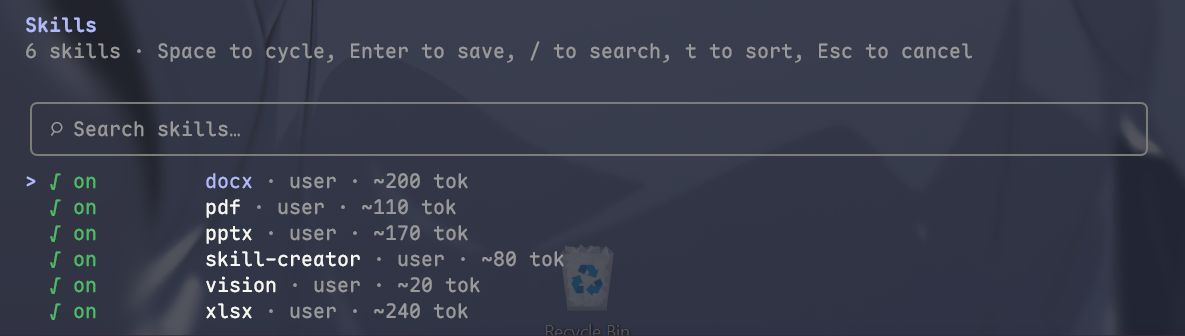
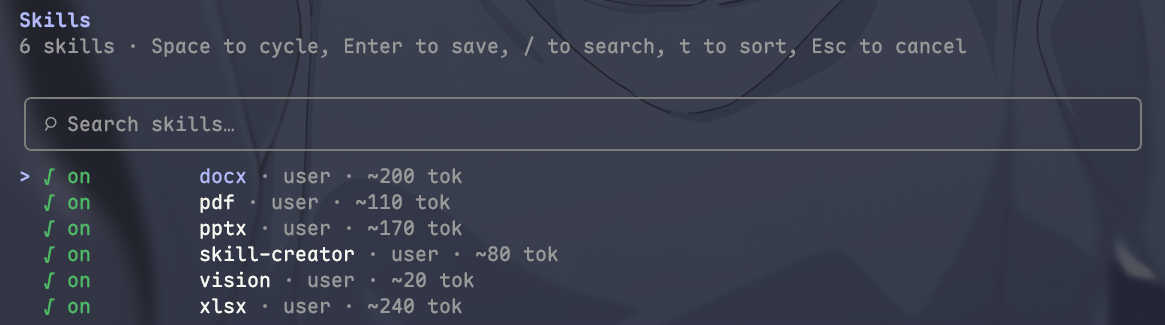
Update

diff --git a/src/content/blog/20260519.md b/src/content/blog/20260519.md
@@ -1,76 +1,77 @@
 ---
 draft: false
 title: Vibe Coding
-description: 通过自然语言与 AI 协作、沉浸于创造氛围的编程方式。
+description: 通过自然语言与 AI 协作, 沉浸于创造氛围的编程方式.
 tags:
   - code
-  - Agent
+  - agent
+  - vibe-coding
 date: 2026-05-19
 update: 2026-06-17
-revision: 6
+revision: 8
 ---
 
 ## Vibe Coding
 
 ### 什么是 Vibe Coding
 
-**Vibe Coding（氛围编程）** 是一种由 AI Agent 驱动的全新编程范式，开发者通过**自然语言**向 Agent 描述需求，Agent 则负责自动生成、修改和调试代码。
+**Vibe Coding(氛围编程)** 是一种由 AI Agent 驱动的全新编程范式, 开发者通过**自然语言**向 Agent 描述需求, Agent 则负责自动生成, 修改和调试代码.
 
-Vibe Coding 的形态在过去与现在有着显著不同。早期，它主要体现为 VS Code 的插件，核心功能是智能的行内代码补全。然而，随着这一概念的兴起，Vibe Coding 的工具边界被极大拓宽：它们不仅能调用更多系统权限，还能处理更复杂的开发任务。以 Cursor 和 Claude Code 为代表的 Agent 编程工具便是其中的佼佼者。值得一提的是，这类工具虽然本身闭源，但开放了 API 接口，允许用户替换为 DeepSeek 等第三方模型，这也让中国国内用户能够便捷地使用。
+Vibe Coding 的形态在过去与现在有着显著不同. 早期, 它主要体现为 VS Code 的插件, 核心功能是智能的行内代码补全. 然而, 随着这一概念的兴起, Vibe Coding 的工具边界被极大拓宽: 它们不仅能调用更多系统权限, 还能处理更复杂的开发任务. 以 Cursor 和 Claude Code 为代表的 Agent 编程工具便是其中的佼佼者. 值得一提的是, 这类工具虽然本身闭源, 但开放了 API 接口, 允许用户替换为 DeepSeek 等第三方模型, 这也让中国国内用户能够便捷地使用.
 
 ### AI Agent 与传统网页对话有什么不同
 
 | 技术维度       | 网页对话                                 | AI Agent                                      |
 | ---------- | ------------------------------------ | --------------------------------------------- |
-| **代码执行能力** | 无。模型生成代码后，需要你**手动复制**到本地运行。          | **自动执行**。Agent 可以直接在终端运行你生成的代码。               |
-| **反馈闭环**   | 你看到错误 → 手动复制错误信息 → 手动粘贴回复 → 让 AI 再改。 | **错误自动回传**。终端报错自动喂给 Agent，Agent 自动修正。         |
-| **文件系统访问** | 无。AI 不知道你的项目有哪些文件、目录结构。              | **可读写文件**。Agent 可以自己创建、修改、删除项目中的多个文件。         |
-| **工具调用能力** | 无。模型只能输出文本。                          | **有函数调用**。Agent 可以主动执行 shell 命令、git 操作、运行测试等。 |
-| **交互方式**   | 一问一答，手动复制粘贴。                         | **多轮自动循环**。Agent 自己写 → 跑 → 看报错 → 改 → 再跑，直到完成。 |
+| **代码执行能力** | 无. 模型生成代码后, 需要你**手动复制**到本地运行.           | **自动执行**. Agent 可以直接在终端运行你生成的代码.                |
+| **反馈闭环**   | 你看到错误 → 手动复制错误信息 → 手动粘贴回复 → 让 AI 再改.  | **错误自动回传**. 终端报错自动喂给 Agent, Agent 自动修正.          |
+| **文件系统访问** | 无. AI 不知道你的项目有哪些文件, 目录结构.               | **可读写文件**. Agent 可以自己创建, 修改, 删除项目中的多个文件.          |
+| **工具调用能力** | 无. 模型只能输出文本.                           | **有函数调用**. Agent 可以主动执行 shell 命令, git 操作, 运行测试等.  |
+| **交互方式**   | 一问一答, 手动复制粘贴.                          | **多轮自动循环**. Agent 自己写 → 跑 → 看报错 → 改 → 再跑, 直到完成.  |
 
-Vibe Coding 工具的本质是一个 AI Agent——通过提示词被赋予了调用外部工具、读取文件、修改文件等能力。
+Vibe Coding 工具的本质是一个 AI Agent -- 通过提示词被赋予了调用外部工具, 读取文件, 修改文件等能力.
 
-## 为什么尝试 Vibe Coding？
+## 为什么尝试 Vibe Coding?
 
 ![Vibe Coding](@/assets/images/2026051900.png)
 
-根据我大量在线学习的经历，诚然，对我而言，学习是一个在大脑中创建索引与链接的过程，在遇到一个问题的时候，如果你能够索引到解决方案，那你就可以解决这个问题。如何创建索引？在之前，这是一个搜索相关文档并总结归纳地过程：你需要在搜索引擎搜索关键词，并翻阅各个网站或者官方文档。而 AI 的出现，让索引的创建变得异常容易，往往只需要一个提问，你就能够在脑海中创建解决问题的索引并持续深入，省去了大量的搜索的时间。而且给了 AI 一只"笔"并告诉它如何使用之后，AI 还能够帮助你快速完成任务，效率得到了巨大的提升。
+根据笔者大量在线学习的经历, 诚然, 对笔者而言, 学习是一个在大脑中创建索引与链接的过程, 在遇到一个问题的时候, 如果你能够索引到解决方案, 那你就可以解决这个问题. 如何创建索引? 在之前, 这是一个搜索相关文档并总结归纳地过程: 你需要在搜索引擎搜索关键词, 并翻阅各个网站或者官方文档. 而 AI 的出现, 让索引的创建变得异常容易, 往往只需要一个提问, 你就能够在脑海中创建解决问题的索引并持续深入, 省去了大量的搜索的时间. 而且给了 AI 一只"笔"并告诉它如何使用之后, AI 还能够帮助你快速完成任务, 效率得到了巨大的提升.
 
-如果你有自己想要尝试做到的事情，但是不知从何开始，不妨尝试一下Vibe Coding。
+如果你有自己想要尝试做到的事情, 但是不知从何开始, 不妨尝试一下Vibe Coding.
 
 ## 有哪些成熟的 Vibe Coding Agent
 
-在所有情况下，我都建议使用终端，也就是**命令行环境下的编程 Agent**，因为 CLI Agent 的可自定义程度更高。
+在所有情况下, 笔者都建议使用终端, 也就是**命令行环境下的编程 Agent**, 因为 CLI Agent 的可自定义程度更高.
 
 | cli                    | description                             |
 | ---------------------- | --------------------------------------- |
-| Claude Code CLI        | “最强 coding agent CLI”                 |
+| Claude Code CLI        | "最强 coding agent CLI"                 |
 | Codex CLI              | OpenAI 版 Claude Code 有免费试用        |
 | Google Antigravity CLI | 良心 Google 有免费试用                  |
 | OpenCode CLI           | 开源 官方 OpenCode Zen 免费供应部分模型 |
 | Aider                  | 开源 需要自行接入外部模型               |
 | Goose                  | 开源 需要自行接入外部模型               |
 
-### 哪一个组合效果最佳？
+### 哪一个组合效果最佳?
 
 ![Claude Code + Claude Opus](@/assets/images/2026051902.png)
 
-在以前，我可能会认为 Claude Code + Claude Opus 是最强的，但是后来发现 Claude 和 ChatGPT 都有各自的优势。Claude 思维发散能力很强，ChatGPT 编写代码的能力胜过 Claude，Claude 和 ChatGPT 都使用才是最佳搭配，Claude 适合做 CEO，ChatGPT 适合做 CTO。
+在以前, 笔者可能会认为 Claude Code + Claude Opus 是最强的, 但是后来发现 Claude 和 ChatGPT 都有各自的优势. Claude 思维发散能力很强, ChatGPT 编写代码的能力胜过 Claude, Claude 和 ChatGPT 都使用才是最佳搭配, Claude 适合做 CEO, ChatGPT 适合做 CTO.
 
-### 想知道哪个 AI 模型的使用效果好？
+### 想知道哪个 AI 模型的使用效果好?
 
 ![Flow](@/assets/images/2026051901.png)
 
-[Arena AI](https://arena.ai/) 运营公开的**大模型竞技场排行榜**。它让用户匿名、并排对比两个模型的回答（A/B测试），基于海量真实用户投票进行排名。排行榜包含文本、编程、视觉理解等方面。
+[Arena AI](https://arena.ai/) 运营公开的**大模型竞技场排行榜**. 它让用户匿名, 并排对比两个模型的回答 (A/B测试), 基于海量真实用户投票进行排名. 排行榜包含文本, 编程, 视觉理解等方面.
 
 ![Artificial Analysis](@/assets/images/2026051903.png)
 
-[Artificial Analysis](https://artificialanalysis.ai/) 是一个专注于**独立分析、评测和对比 AI 模型与 API 提供商**的专业数据平台。分数很难受到人工干预，更加客观。
+[Artificial Analysis](https://artificialanalysis.ai/) 是一个专注于**独立分析, 评测和对比 AI 模型与 API 提供商**的专业数据平台. 分数很难受到人工干预, 更加客观.
 
 ## 什么事情不适合使用 AI
 
-没有清晰的参考文档，没有 SOP （**Standard Operating Procedure**） 的事情。
+没有清晰的参考文档, 没有 SOP (**Standard Operating Procedure**) 的事情.
 
 ## 如何看待 Vibe Coding
 
-不要问 Agent 能帮你做什么，要问你想做什么。
+不要问 Agent 能帮你做什么, 要问你想做什么.

diff --git a/CLAUDE.md b/CLAUDE.md
@@ -1,0 +1,43 @@
+# Project-Level Instructions
+
+## Chinese Typography
+
+### Parentheses
+- Use `()` only — never `（）`
+- Chinese before `(` → space: `文本 (text)`
+- English before `(` → no space: `text(text)`
+- No space before content inside: `(内容)` `(content)`
+
+### Quotes
+- Use straight `" "` — never curly `""`
+
+### Punctuation
+- Use half-width `, . ? ! :` instead of full-width `，。？！：`
+- Use `, ` instead of `、` (enumeration comma)
+- Use ` -- ` instead of `——` (em dash)
+
+### Spacing
+- Add space between Chinese and English: `欢迎使用 OpenCode`
+- Add space between Chinese and numbers: `标题 1` / `5 小时` / `200 次`
+- Add space after `, . ? !` when following Chinese text
+- No space before `, . ? !` when following English text
+- No trailing whitespace at line endings
+
+### Case
+- Proper nouns: `GitHub`, `Node.js`, `PowerShell`, `macOS`
+- Tags: lowercase only (`agent`, not `Agent`)
+
+### Width
+- English, digits — half-width (ASCII)
+
+## Format Workflow
+
+When the user requests formatting, execute these steps in order:
+
+1. **Read modified articles** — check git status to identify changed `.md` files, apply the `Chinese Typography` rules above
+2. **Increment revision** — `revision + 1` for each modified article
+3. **Process images** — scan `src/content/blog/` for image files:
+   - Move to `src/assets/images/`
+   - Rename as `{article-filename}{two-digit-seq}.{ext}` (e.g. `2026061600.png`)
+   - Remove unreferenced images
+   - Update article references to standard Markdown: `![alt](@/assets/images/2026061600.png)`
